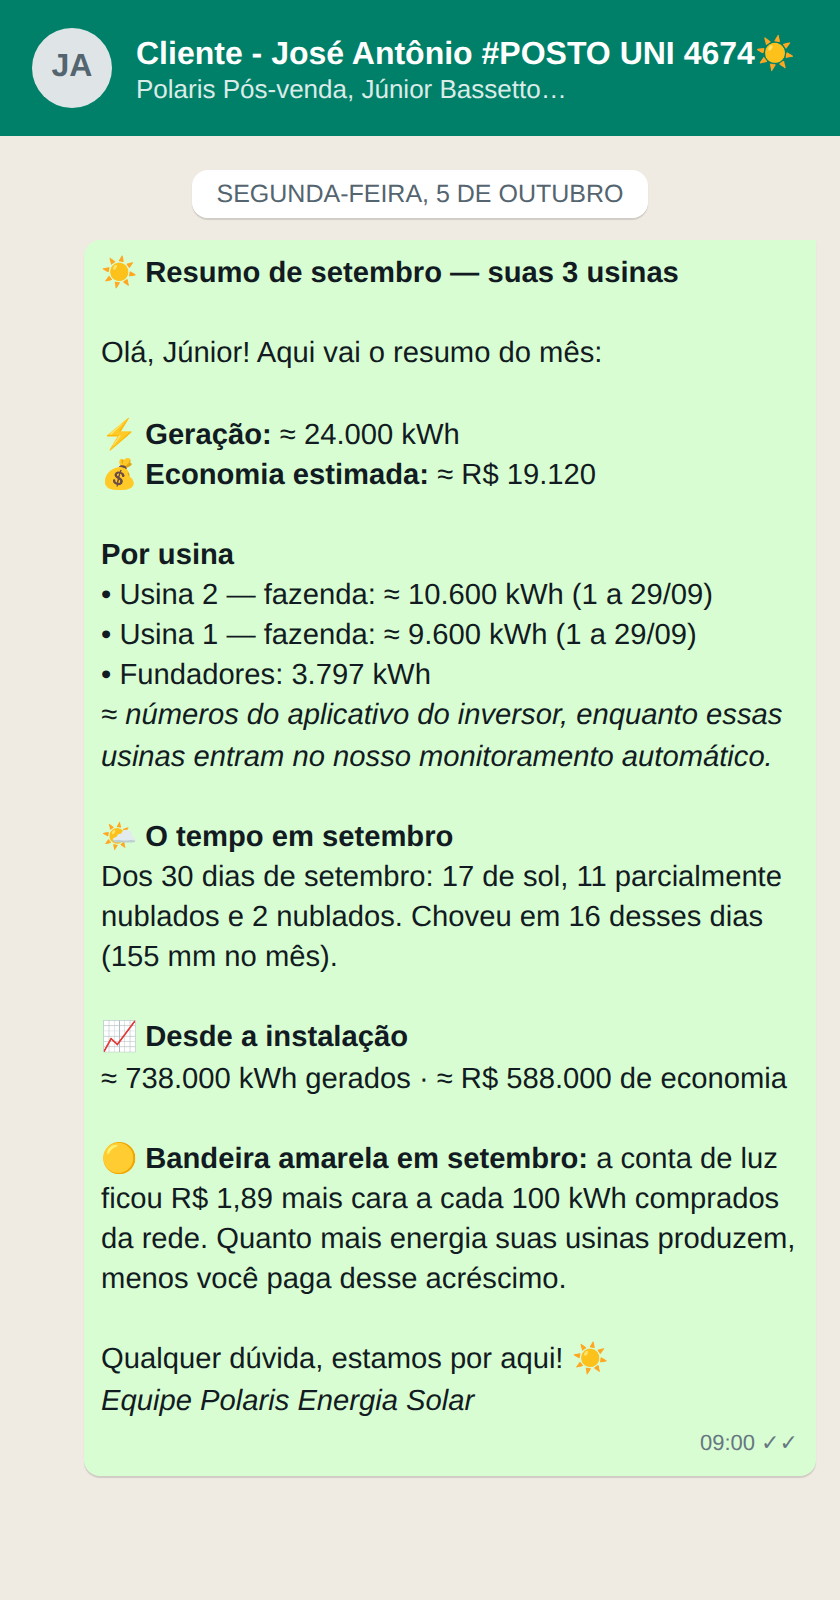
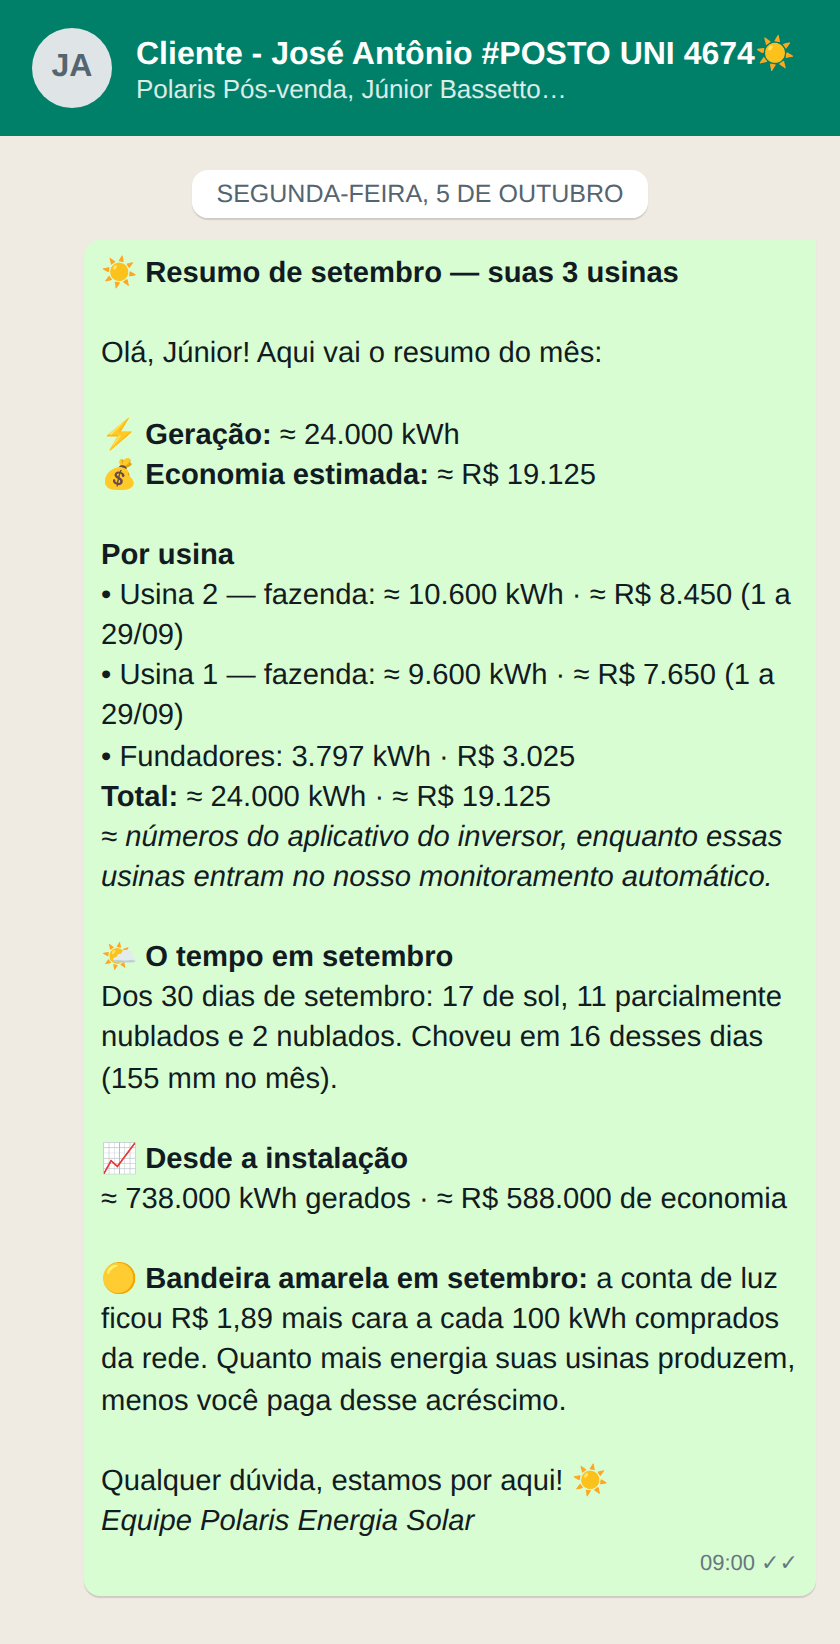
Resumo mensal: economia em R$ de cada usina e linha de Total que soma as linhas
- resumo_mensal_obra: '• usina: kWh · R$' e '*Total:*'; o total do mês é a soma
  das linhas exibidas (app arredondado a dezenas), para o cliente somar e bater
- contato 621 (Júnior, setembro) regenerado com o novo formato, com o acumulado
  do primeiro resumo; segue aprovado para 05/10 9h
- simulado com rollback antes: Júnior 19.125 = 8.450 + 7.650 + 3.025;
  Gilberto 2.799 = 1.027 + 890 + 553 + 329. Função no banco = arquivo (md5)

Claude-Session: https://claude.ai/code/session_012mGVk6ix6PxLZrwWAn3p5r

diff --git a/CLAUDE.md b/CLAUDE.md
@@ -430,6 +430,12 @@ no SolarView e gerou em 2025, então o mês sai em branco.
 medido aqui. O resumo do cliente mostra também o passado do app. Os dois
 números diferem de propósito, e isso tem de ser dito se alguém comparar.
 
+Desde 02/10 (pedido do Vitor) cada linha de *"Por usina"* traz também a
+**economia em R$**, e uma linha *"Total"* fecha a lista. O total do mês — no
+topo e no Total — é a **soma das linhas como aparecem** (número do app
+arredondado a dezenas), para o cliente somar e bater: Júnior 8.450 + 7.650 +
+3.025 = 19.125. O contato 621 foi regenerado com isso, mantendo o acumulado.
+
 `clientes.chamar_de` é o nome do *"Olá, ...!"* — sem ele, o primeiro nome do
 cadastro, que para o Jose Antonio Bassetto Junior dava "Jose".
 
